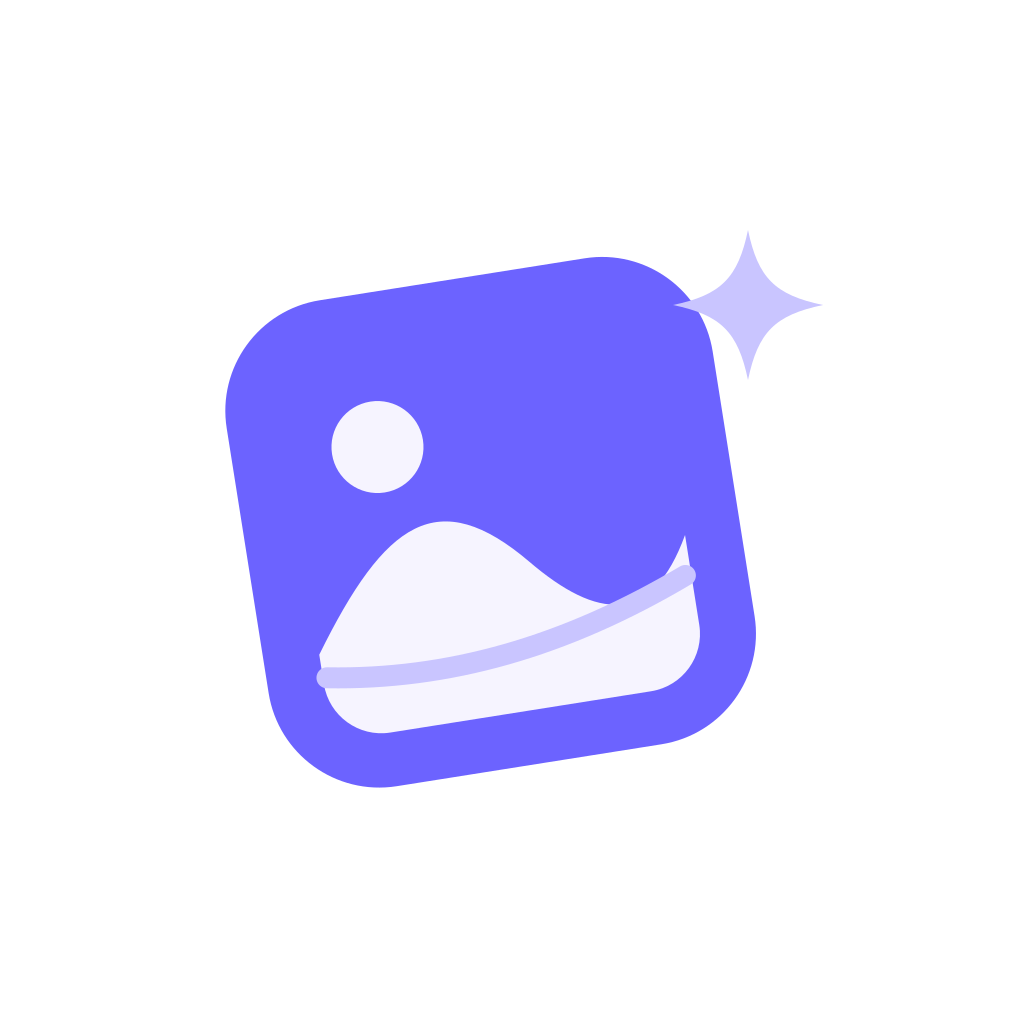
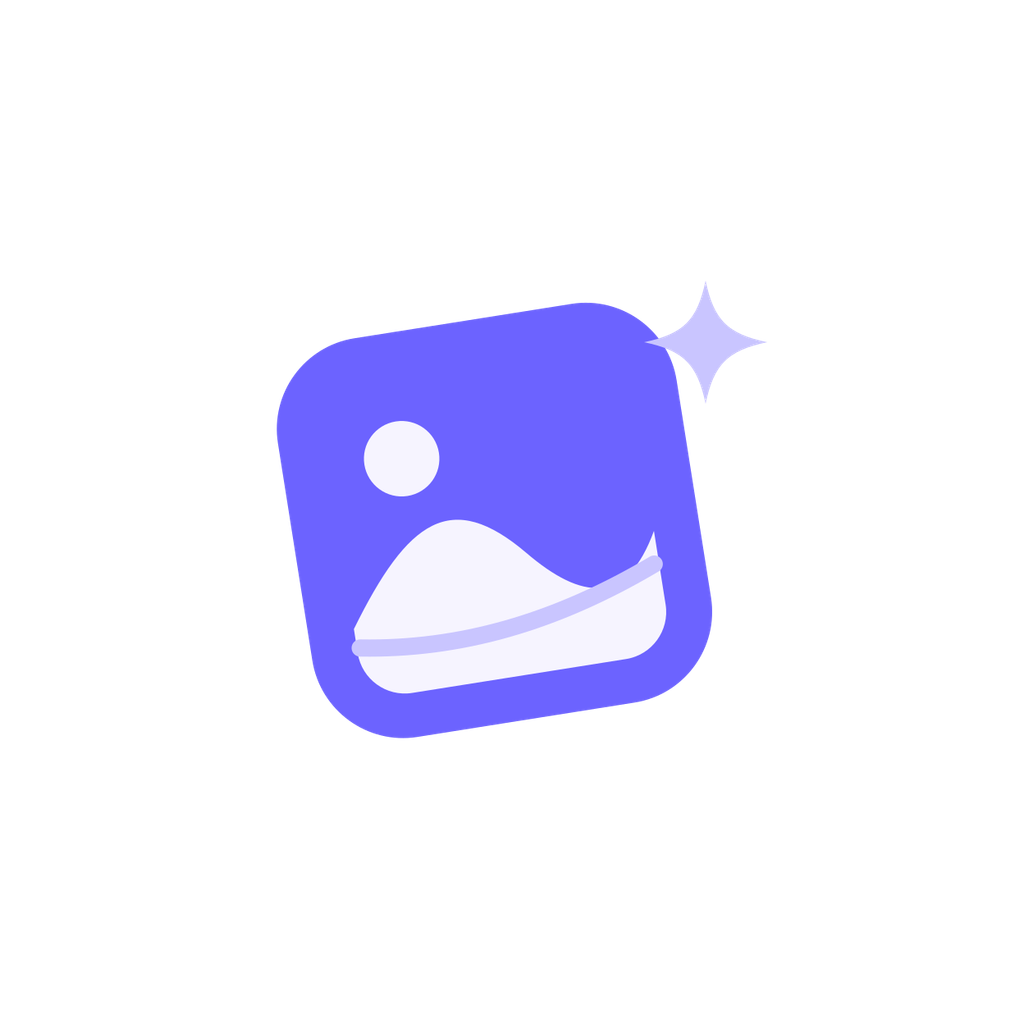
Keep the adaptive photo mark inside launcher masks

Changed region(s): [[0.2188, 0.2188, 0.8125, 0.7812], [0.5, 0.5312, 0.5312, 0.5625]]

diff --git a/assets/README.md b/assets/README.md
@@ -1,0 +1,5 @@
+# Rinse artwork
+
+`logo-mark.svg` is the editable, transparent vector source. The standard 1024px icon and 64px favicon place it on `#0D0D0D`. The splash uses the mark on transparency.
+
+Android adaptive foreground and monochrome exports use a 1024px transparent canvas with the artwork scaled to 840px and centered with 92px margins. This keeps the photo and sparkle inside Android's circular safe area when launchers crop or animate the icon. Keep this padding when re-exporting. The adaptive background is solid `#0D0D0D`.
